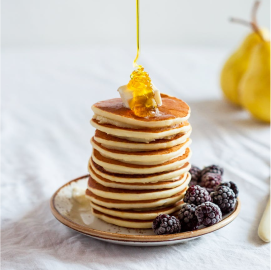
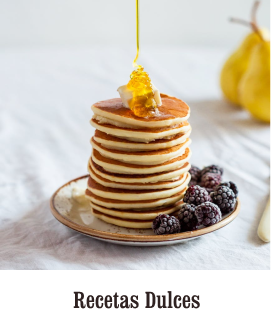
carrusel categorias

diff --git a/src/components/NavbarPage.jsx b/src/components/NavbarPage.jsx
@@ -10,16 +10,14 @@ import {
   MDBCollapse,
   MDBNavItem,
   MDBNavLink,
-  MDBContainer,
-  MDBMask,
   MDBView,
 } from "mdbreact";
 import { BrowserRouter as Router } from "react-router-dom";
 import especie from "../img/bckgrounduno.png";
 import logo from "../img/logounimarc.png";
 import moteImg from "../img/moteconhuesillo.png";
-import { MDBBtn, MDBBtnGroup } from "mdbreact";
 import "../StyleCSS/NavbarPage.css";
+
 class FullPageIntroWithFixedNavbar extends React.Component {
   constructor(props) {
     super(props);
@@ -154,24 +152,6 @@ class FullPageIntroWithFixedNavbar extends React.Component {
             {/*</MDBMask>*/}
           </MDBView>
         </header>
-        <main>
-          <MDBContainer className="text-center my-5">
-            <p align="justify">
-              Quis nostrud exercitation ullamco laboris nisi ut aliquip ex ea
-              commodo consequat. Duis aute irure dolor in reprehenderit in
-              voluptate velit esse cillum dolore eu fugiat nulla pariatur.
-              Excepteur sint occaecat cupidatat non proident, sunt in culpa qui
-              officia deserunt mollit anim id est laborum. Lorem ipsum dolor sit
-              amet, consectetur adipiscing elit, sed do eiusmod tempor
-              incididunt ut labore et dolore magna aliqua. Ut enim ad minim
-              veniam, quis nostrud exercitation ullamco laboris nisi ut aliquip
-              ex ea commodo consequat. Duis aute irure dolor in reprehenderit in
-              voluptate velit esse cillum dolore eu fugiat nulla pariatur.
-              Excepteur sint occaecat cupidatat non proident, sunt in culpa qui
-              officia deserunt mollit anim id est laborum.
-            </p>
-          </MDBContainer>
-        </main>
       </div>
     );
   }

diff --git a/src/components/Carousel.jsx b/src/components/Carousel.jsx
@@ -1,0 +1,47 @@
+import React from "react";
+import Carousel from "react-elastic-carousel";
+import Item from "./item";
+import "../StyleCSS/carousel.css";
+import carro from '../img/cocinaconniño.png'
+import chile from '../img/recetachilena.png'
+import vege from '../img/recetavegetariana.png'
+import dulce from '../img/recetadulce.png'
+import gluten from '../img/cocinasingluten.png'
+
+const Carousele = () => {
+
+    const breakPoints = [
+        { width: 1, itemsToShow: 1 },
+        { width: 550, itemsToShow: 2 },
+        { width: 768, itemsToShow: 3 },
+        { width: 1200, itemsToShow: 4 },
+      ];
+
+    return (
+        <>
+{/*         <h1 style={{ textAlign: "center" }}>CATEGORIAS</h1> */}
+        <div className="App">
+          <Carousel breakPoints={breakPoints}> 
+            <Item style={{height:'300px'}}>  
+                <a href="/kids"><img src={carro} alt="" className="img-fluid mx-auto"/> </a>                    
+            </Item>
+            <Item style={{height:'300px'}}>
+                <a href="/Sweet"><img src={dulce} alt="" className=" img-fluid mx-auto"/> </a> 
+            </Item>
+            <Item style={{height:'300px'}}>
+                <a href="/Chilenas"><img src={chile} alt="" className=" img-fluid mx-auto"/> </a>  
+            </Item>
+            <Item style={{height:'300px'}}>
+                <a href="/Vegetariana"><img src={vege} alt="" className=" img-fluid mx-auto"/> </a>  
+            </Item>
+            <Item style={{height:'300px'}}>
+                <a href="/Gluten"><img src={gluten} alt="" className=" img-fluid mx-auto"/> </a>  
+            </Item>
+           </Carousel>
+        </div>
+      </>
+    )
+}
+
+
+export default Carousele

diff --git a/src/App.js b/src/App.js
@@ -6,15 +6,32 @@ import {
   Route
 } from "react-router-dom";
 import Home from './components/Home';
-import Register from './components/Register';
+import Recipeskids from './components/componentsRecipes/Recipeskids';
+import RecipesSweet from './components/componentsRecipes/RecipesSweet';
+import RecipesChile from './components/componentsRecipes/RecipesChile';
+import RecipesVege from './components/componentsRecipes/RecipesVege';
+import RecipesGluten from './components/componentsRecipes/RecipesGluten';
+
 
 function App() {
   return (
     <Router>
     <div>
         <Switch>
-          <Route path="/register">
-            <Register />
+          <Route path="/kids">
+            <Recipeskids />
+          </Route>
+          <Route path="/Sweet">
+            <RecipesSweet />
+          </Route>
+          <Route path="/Chilenas">
+            <RecipesChile />
+          </Route>
+          <Route path="/Vegetariana">
+            <RecipesVege />
+          </Route>
+          <Route path="/Gluten">
+            <RecipesGluten />
           </Route>
           <Route path="/" exact>
             <Home />

diff --git a/src/StyleCSS/carousel.css b/src/StyleCSS/carousel.css
@@ -1,0 +1,26 @@
+.App {
+    font-family: sans-serif;
+    display: flex;
+    align-items: center;
+    justify-content: center;
+    height: 100vh;
+    background-color: #FBF7F7;
+  }
+
+.hCVuYx {
+    font-size: 2.6em !important;
+    background-color: rgb(105 98 117 / 0%) !important;
+    color: #000 !important;
+    box-shadow: 0 0 black !important;
+}
+
+.chowzb {
+    font-size: 2.6em !important;
+    background-color: rgb(105 98 117 / 0%) !important;
+    color: #000 !important;
+    box-shadow: 0 0 black !important;
+}
+.brcpxa {
+    background-color: rgb(0 0 0 / 50%) !important;
+    box-shadow: 0 0 1px 3px rgb(174 170 181) !important;
+}

diff --git a/src/components/Home.jsx b/src/components/Home.jsx
@@ -1,4 +1,5 @@
 import React from 'react'
+import Carousele from './Carousel'
 import FullPageIntroWithFixedNavbar from './NavbarPage'
 
 
@@ -6,7 +7,7 @@ const Home = () => {
     return (
         <div> 
             <FullPageIntroWithFixedNavbar />
-   
+            <Carousele />
         </div>
     )
 }

diff --git a/src/components/item.js b/src/components/item.js
@@ -1,0 +1,12 @@
+import styled from "styled-components";
+
+export default styled.div`
+  display: flex;
+  justify-content: center;
+  align-items: center;
+  height: 250px;
+  width: 100%;
+
+  margin: 0 15px;
+  font-size: 4em;
+`;

diff --git a/src/components/componentsRecipes/RecipesChile.jsx b/src/components/componentsRecipes/RecipesChile.jsx
@@ -1,0 +1,11 @@
+import React from 'react'
+
+const RecipesChile = () => {
+    return (
+        <div>
+            <h1>CHI CHI CHI LE LE LE</h1>
+        </div>
+    )
+}
+
+export default RecipesChile

diff --git a/src/components/componentsRecipes/RecipesSweet.jsx b/src/components/componentsRecipes/RecipesSweet.jsx
@@ -1,0 +1,11 @@
+import React from 'react'
+
+const RecipesSweet = () => {
+    return (
+        <div>
+            <h1>RECETAS DULCES</h1>
+        </div>
+    )
+}
+
+export default RecipesSweet

diff --git a/src/components/componentsRecipes/Recipeskids.jsx b/src/components/componentsRecipes/Recipeskids.jsx
@@ -1,0 +1,11 @@
+import React from 'react'
+
+const Recipeskids  = () => {
+    return (
+        <div>
+            <h1>RECETAS NIÑOS</h1>
+        </div>
+    )
+}
+
+export default Recipeskids

diff --git a/src/components/componentsRecipes/RecipesVege.jsx b/src/components/componentsRecipes/RecipesVege.jsx
@@ -1,0 +1,11 @@
+import React from 'react'
+
+const RecipesVege = () => {
+    return (
+        <div>
+            <h1>VEGETARIANA</h1>
+        </div>
+    )
+}
+
+export default RecipesVege

diff --git a/src/components/componentsRecipes/RecipesGluten.jsx b/src/components/componentsRecipes/RecipesGluten.jsx
@@ -1,0 +1,11 @@
+import React from 'react'
+
+const RecipesGluten = () => {
+    return (
+        <div>
+            <h1>GLUTEN</h1>
+        </div>
+    )
+}
+
+export default RecipesGluten
